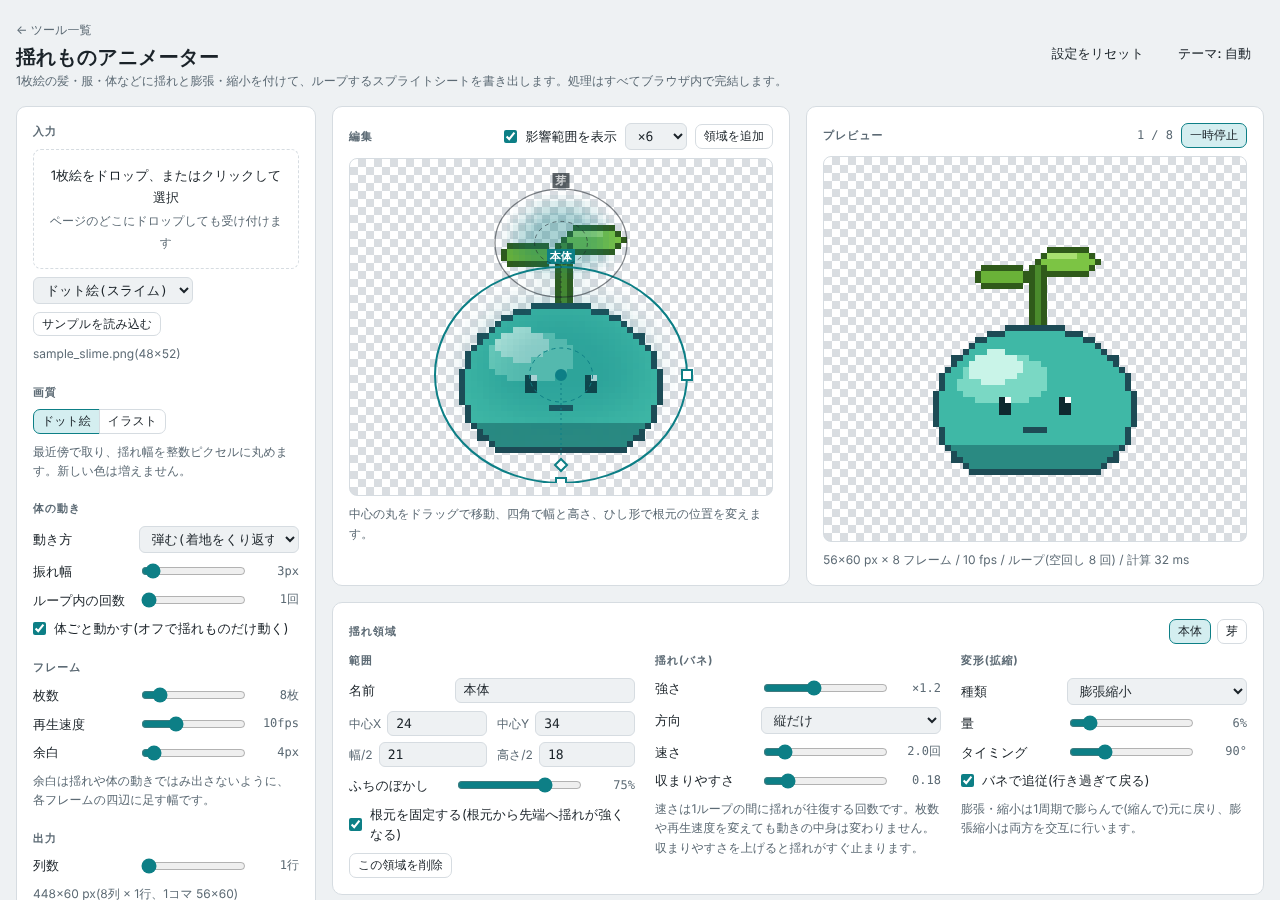
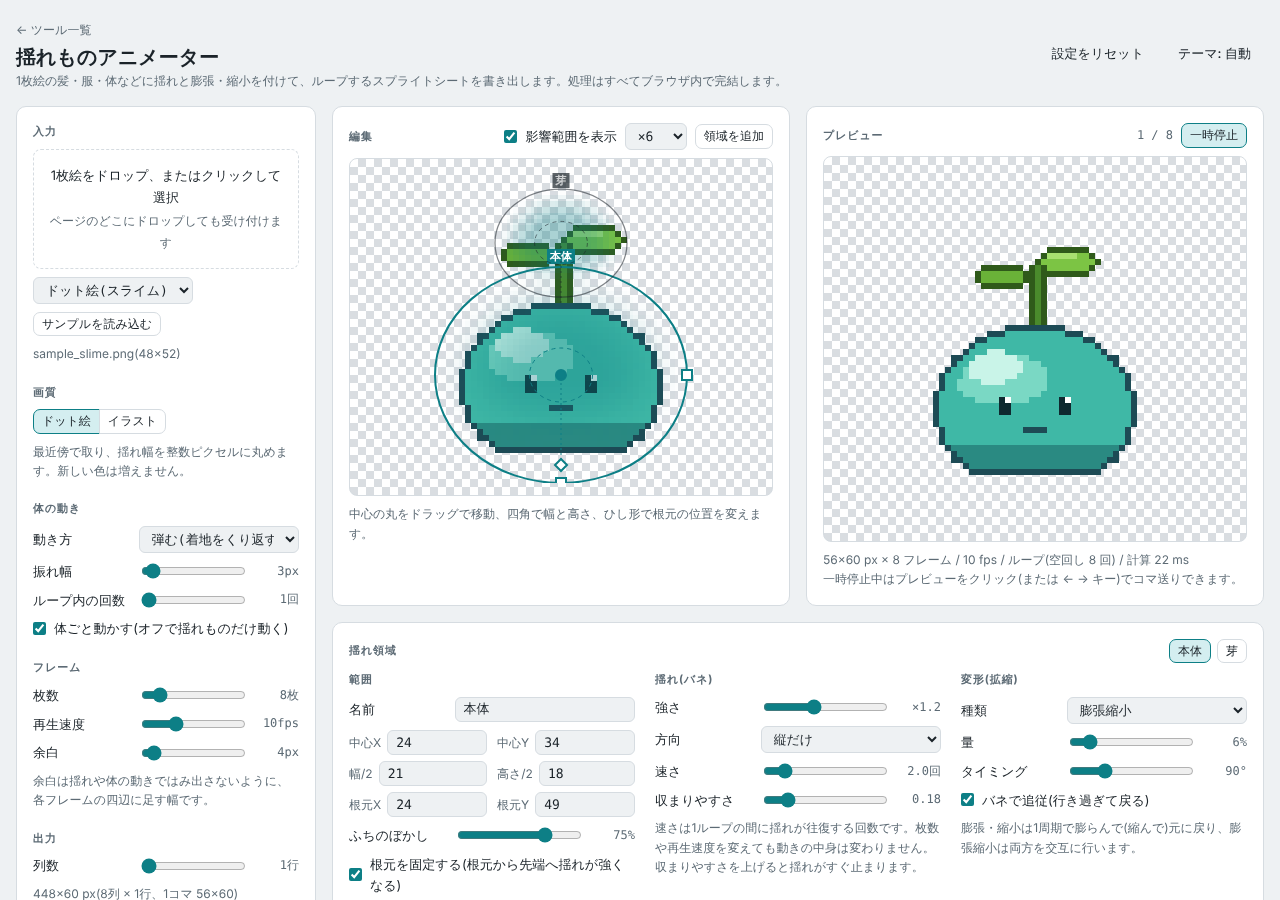
揺れものアニメーター: レビュー指摘を反映
- 保存値を整数・範囲・選択肢で検証し、壊れた値でも既定値で起動する
- 揺れと拡縮の量を変位場の傾きで抑え、極端な設定でも変形が折り返さないようにする
- 「動かない」でもループ内の回数を拡縮の回数として使えるようにする
- イラストサンプルで広げた振れ幅・余白を自動保存しない
- 根元の座標を数値でも入力できるようにし、コマ送りをキーボードでも行えるようにする
- リセットボタンの id と説明を他ツールに揃え、キャンバスに role=img を付ける
- テストは固定の待ち時間ではなく再計算の完了を待つ。折り返しと壊れた保存値のテストを追加

Claude-Session: https://claude.ai/code/session_01Drzz99ycigzBntUXDfpLZ9

Changed region(s): [[0.25, 0.6844, 0.9688, 0.9956], [0.6562, 0.6222, 0.9688, 0.6533], [0.9062, 0.6844, 0.9688, 0.7467]]

diff --git a/tools/jiggle-animator.html b/tools/jiggle-animator.html
@@ -135,7 +135,6 @@ h1{text-wrap:balance}
 .sheet-wrap{overflow:auto;max-height:50vh;border-radius:8px;border:1px solid var(--line);padding:8px}
 .sheet-wrap canvas{display:block}
 </style>
-</style>
 </head>
 <body>
 <div class="wrap">
@@ -147,7 +146,7 @@ h1{text-wrap:balance}
       <p class="hint">1枚絵の髪・服・体などに揺れと膨張・縮小を付けて、ループするスプライトシートを書き出します。処理はすべてブラウザ内で完結します。</p>
     </div>
     <div class="actions">
-      <button class="btn btn-ghost" type="button" id="btnReset">設定をリセット</button>
+      <button class="btn btn-ghost" type="button" id="btnResetPrefs" title="体の動き・フレーム・余白・列数・影響範囲の表示を初期値に戻します（読み込んだ画像と揺れ領域はそのまま）">設定をリセット</button>
       <button class="btn btn-ghost" type="button" id="themeToggle">テーマ: 自動</button>
     </div>
   </header>
@@ -228,7 +227,7 @@ h1{text-wrap:balance}
               <button class="btn btn-sm" type="button" id="btnAdd" disabled>領域を追加</button>
             </div>
           </div>
-          <div class="stage bg-checker"><canvas id="editor" width="64" height="64" aria-label="揺れ領域の編集"></canvas></div>
+          <div class="stage bg-checker"><canvas id="editor" width="64" height="64" role="img" aria-label="揺れ領域の編集"></canvas></div>
           <p class="hint mt-2">中心の丸をドラッグで移動、四角で幅と高さ、ひし形で根元の位置を変えます。</p>
         </section>
         <section class="panel p-4 min-w-0">
@@ -239,8 +238,9 @@ h1{text-wrap:balance}
               <button class="btn btn-sm" type="button" id="btnPlay" aria-pressed="true">一時停止</button>
             </div>
           </div>
-          <div class="stage bg-checker"><canvas id="preview" width="64" height="64" aria-label="アニメーションのプレビュー"></canvas></div>
+          <div class="stage bg-checker"><canvas id="preview" width="64" height="64" role="img" tabindex="0" aria-label="アニメーションのプレビュー(停止中はクリックか左右キーでコマ送り)"></canvas></div>
           <p class="hint mt-2" id="simInfo">—</p>
+          <p class="hint">一時停止中はプレビューをクリック(または ← → キー)でコマ送りできます。</p>
         </section>
       </div>
 
@@ -259,6 +259,8 @@ h1{text-wrap:balance}
               <label for="rCy">中心Y<input class="input" type="number" id="rCy" step="0.5"></label>
               <label for="rRx">幅/2<input class="input" type="number" id="rRx" step="0.5" min="1"></label>
               <label for="rRy">高さ/2<input class="input" type="number" id="rRy" step="0.5" min="1"></label>
+              <label for="rAx">根元X<input class="input" type="number" id="rAx" step="0.5"></label>
+              <label for="rAy">根元Y<input class="input" type="number" id="rAy" step="0.5"></label>
             </div>
             <label class="field" for="rFeather">ふちのぼかし<input class="range" type="range" id="rFeather" min="0.05" max="1" step="0.05"><output id="rFeatherOut"></output></label>
             <label class="check"><input class="checkbox" type="checkbox" id="rAnchorOn">根元を固定する(根元から先端へ揺れが強くなる)</label>
@@ -301,7 +303,7 @@ h1{text-wrap:balance}
           <h2 class="sec-title">スプライトシート</h2>
           <span class="hint" id="sheetSize">—</span>
         </div>
-        <div class="sheet-wrap bg-checker"><canvas id="sheet" class="pixelated" width="1" height="1" aria-label="スプライトシート"></canvas></div>
+        <div class="sheet-wrap bg-checker"><canvas id="sheet" class="pixelated" width="1" height="1" role="img" aria-label="スプライトシート"></canvas></div>
       </section>
     </main>
   </div>
@@ -464,12 +466,16 @@ const $ = (id) => document.getElementById(id);
 const TAU = Math.PI * 2;
 const SETTINGS_KEY = "jiggle-animator:settings";
 const DEFAULTS = { motion: "hop", amp: 3, cycles: 1, bodyMove: true, frames: 8, fps: 10, pad: 4, cols: 0, showWeight: true };
-const GLOBAL_KEYS = ["motion", "amp", "cycles", "bodyMove", "frames", "fps", "pad", "cols", "showWeight"];
-
+// 保存値は壊れていても使えるよう、整数・範囲・選択肢を確かめてから取り込む（範囲は各スライダーと同じ）
+const INT_RANGES = { amp: [0, 64], cycles: [1, 4], frames: [2, 48], fps: [1, 30], pad: [0, 64], cols: [0, 48] };
+const MOTIONS = ["hop", "bounce", "sway", "land", "none"];
 function loadSettings() {
-  const s = IT.store.get(SETTINGS_KEY, {}) || {};
+  const raw = IT.store.get(SETTINGS_KEY, {});
+  const s = raw && typeof raw === "object" && !Array.isArray(raw) ? raw : {};
   const out = { ...DEFAULTS };
-  for (const k of GLOBAL_KEYS) if (k in s && typeof s[k] === typeof DEFAULTS[k]) out[k] = s[k];
+  for (const [k, [lo, hi]] of Object.entries(INT_RANGES)) if (Number.isInteger(s[k])) out[k] = Math.min(hi, Math.max(lo, s[k]));
+  if (MOTIONS.includes(s.motion)) out.motion = s.motion;
+  for (const k of ["bodyMove", "showWeight"]) if (typeof s[k] === "boolean") out[k] = s[k];
   return out;
 }
 let S = loadSettings();
@@ -514,14 +520,22 @@ function wave(kind, u) {
     default: return 0;
   }
 }
-// 揺れ幅の上限（ぼかし幅を超えると画像が折り返すので抑える）
-function maxDisp(r) { return 0.9 * Math.min(r.rx, r.ry) * Math.max(r.feather, 0.15); }
+// 変形が折り返さない（逆算が収束する）よう、変位場の傾きの目安を 0.9 未満に抑える係数。
+// 揺れ: 重みの傾きは最大 1.5/幅 なので |d|×1.5/幅。幅はぼかしの帯と根元〜中心の短い方。
+// 拡縮: s×(p−c)×重み の傾きはおよそ |s|×(1 + 1.5/ぼかし + 根元側の項)。
+function foldLimits(r) {
+  const rmin = Math.min(r.rx, r.ry), rmax = Math.max(r.rx, r.ry);
+  const L = r.anchorOn ? Math.hypot(r.cx - r.ax, r.cy - r.ay) : Infinity;
+  const band = Math.max(0.5, Math.min(r.feather * rmin, L >= 1 ? L : Infinity));
+  return { kd: 1.5 / band, ks: 1 + 1.5 / r.feather + (L >= 1 && L < Infinity ? 1.5 * rmax / L : 0) };
+}
+const FOLD_MAX = 0.9;
 
 // 各フレームの体の位置・領域ごとの揺れ・拡縮を求める
 function simulate() {
   // 時間は「1ループ = 1」で正規化する。枚数は切り出す細かさ、再生速度は再生の速さだけを変え、動きの中身は変えない
   const N = S.frames, T = 1, loop = S.motion !== "land";
-  const P = loop ? T / S.cycles : T;
+  const P = S.motion === "land" ? T : T / S.cycles;
   const A = S.amp;
   let wMax = 1;
   for (const r of regions) wMax = Math.max(wMax, TAU * r.freq);
@@ -543,11 +557,13 @@ function simulate() {
       const t = f * SUB * dt;
       const b = S.bodyMove ? bp(t) : [0, 0];
       const rs = regions.map((r, i) => {
-        let dx = st[i].dx * r.gain, dy = st[i].dy * r.gain;
-        const len = Math.hypot(dx, dy), m = maxDisp(r);
-        if (len > m) { dx *= m / len; dy *= m / len; }
-        if (mode === "pixel") { dx = Math.round(dx); dy = Math.round(dy); }
-        const s = Math.max(-0.6, Math.min(0.6, st[i].s));
+        let dx = st[i].dx * r.gain, dy = st[i].dy * r.gain, s = st[i].s;
+        const { kd, ks } = foldLimits(r);
+        const lip = Math.hypot(dx, dy) * kd + Math.abs(s) * ks;
+        const clamped = lip > FOLD_MAX;
+        if (clamped) { const f = FOLD_MAX / lip; dx *= f; dy *= f; s *= f; }
+        // 丸めで上限を越えないよう、抑えたときは 0 側へ切り捨てる
+        if (mode === "pixel") { const q = clamped ? Math.trunc : Math.round; dx = q(dx); dy = q(dy); }
         return { dx, dy, s };
       });
       out.push({ bx: mode === "pixel" ? Math.round(b[0]) : b[0], by: mode === "pixel" ? Math.round(b[1]) : b[1], rs });
@@ -651,8 +667,10 @@ function renderFrame(fr, W, H, pad) {
 // ---------------------------------------------------------------- 再計算
 let recomputeTimer = 0;
 function scheduleRecompute(ms = 120) { clearTimeout(recomputeTimer); recomputeTimer = setTimeout(recompute, ms); }
+let recomputeCount = 0; // テストが再計算の完了を待つのに使う
 function recompute() {
   if (!src) return;
+  recomputeCount++;
   const t0 = performance.now();
   const pad = S.pad;
   frameW = src.w + pad * 2; frameH = src.h + pad * 2;
@@ -745,9 +763,14 @@ $("btnPlay").addEventListener("click", () => {
   $("btnPlay").setAttribute("aria-pressed", String(playing));
   lastDrawn = -1;
 });
-$("preview").addEventListener("click", () => {
+function stepFrame(delta) {
   if (playing || !frames.length) return;
-  pausedFrame = (pausedFrame + 1) % frames.length; lastDrawn = -1; // 停止中はクリックでコマ送り
+  pausedFrame = (pausedFrame + delta + frames.length) % frames.length; lastDrawn = -1;
+}
+// 停止中はクリックか左右キーでコマ送り
+$("preview").addEventListener("click", () => stepFrame(1));
+$("preview").addEventListener("keydown", (e) => {
+  if (e.key === "ArrowRight" || e.key === "ArrowLeft") { e.preventDefault(); stepFrame(e.key === "ArrowRight" ? 1 : -1); }
 });
 
 // ---------------------------------------------------------------- 編集キャンバス
@@ -876,9 +899,13 @@ function eventPos(e) {
 function hitTest(p) {
   const order = sel >= 0 ? [sel, ...regions.map((_, i) => i).filter((i) => i !== sel)] : regions.map((_, i) => i);
   if (sel >= 0) {
-    for (const h of handlesOf(regions[sel]).reverse()) {
-      if (Math.hypot(h.x * zoom - p.cx, h.y * zoom - p.cy) <= p.tol) return { i: sel, type: h.type };
+    // 小さい領域ではハンドル同士が重なるので、いちばん近いハンドルを選ぶ
+    let best = null, bestD = p.tol;
+    for (const h of handlesOf(regions[sel])) {
+      const d = Math.hypot(h.x * zoom - p.cx, h.y * zoom - p.cy);
+      if (d <= bestD) { best = h; bestD = d; }
     }
+    if (best) return { i: sel, type: best.type };
   }
   for (const i of order) {
     const r = regions[i], nx = (p.x - r.cx) / r.rx, ny = (p.y - r.cy) / r.ry;
@@ -932,6 +959,8 @@ function syncRegionNums() {
   const r = regions[sel];
   if (!r) return;
   $("rCx").value = r.cx; $("rCy").value = r.cy; $("rRx").value = r.rx; $("rRy").value = r.ry;
+  $("rAx").value = r.ax; $("rAy").value = r.ay;
+  $("rAx").disabled = $("rAy").disabled = !r.anchorOn;
 }
 function renderRegionUI() {
   const list = $("regionList");
@@ -966,7 +995,7 @@ for (const [id, k] of Object.entries(R_RANGES)) {
     onRegionEdit();
   });
 }
-for (const [id, k] of [["rCx", "cx"], ["rCy", "cy"], ["rRx", "rx"], ["rRy", "ry"]]) {
+for (const [id, k] of [["rCx", "cx"], ["rCy", "cy"], ["rRx", "rx"], ["rRy", "ry"], ["rAx", "ax"], ["rAy", "ay"]]) {
   $(id).addEventListener("change", (e) => {
     const r = regions[sel]; if (!r) return;
     let v = +e.target.value;
@@ -989,7 +1018,7 @@ $("rAnchorOn").addEventListener("change", (e) => {
   const r = regions[sel]; if (!r) return;
   r.anchorOn = e.target.checked;
   if (r.anchorOn && Math.hypot(r.ax - r.cx, r.ay - r.cy) < 1) { r.ax = r.cx; r.ay = snap(r.cy - r.ry); }
-  onRegionEdit();
+  syncRegionNums(); onRegionEdit();
 });
 $("btnDel").addEventListener("click", () => {
   if (sel < 0) return;
@@ -1018,7 +1047,7 @@ function applySettingsToUI() {
   $("motion").value = S.motion;
   $("bodyMove").checked = S.bodyMove;
   $("showWeight").checked = S.showWeight;
-  $("cycles").disabled = S.motion === "land" || S.motion === "none";
+  $("cycles").disabled = S.motion === "land"; // 「動かない」では拡縮の回数として使う
 }
 for (const k of G_RANGES) {
   $(k).addEventListener("input", (e) => {
@@ -1163,7 +1192,8 @@ function sampleSmooth() {
 $("btnSample").addEventListener("click", () => {
   if ($("sampleKind").value === "smooth") {
     const s = sampleSmooth();
-    if (S.amp < 8) { S.amp = 10; S.pad = Math.max(S.pad, 12); applySettingsToUI(); saveSettings(); }
+    // 大きい絵向けに振れ幅と余白を広げる。画面には出すが保存はしない（ほかの設定を変えたときに一緒に保存される）
+    if (S.amp < 8) { S.amp = 10; S.pad = Math.max(S.pad, 12); applySettingsToUI(); IT.toast("サンプルに合わせて振れ幅と余白を広げました"); }
     setSource("sample_jelly.png", s.canvas, s.regions, "smooth");
   } else {
     const s = samplePixel();
@@ -1181,7 +1211,7 @@ $("btnJson").addEventListener("click", () => {
   if (!frames.length) return;
   IT.saveFile(baseName() + ".json", new Blob([JSON.stringify(asepriteJson(), null, 2)], { type: "application/json" }));
 });
-$("btnReset").addEventListener("click", () => {
+$("btnResetPrefs").addEventListener("click", () => {
   S = { ...DEFAULTS }; IT.store.remove(SETTINGS_KEY);
   applySettingsToUI(); setupEditor(); scheduleRecompute(0);
   IT.toast("設定をリセットしました");

diff --git a/tests/test_jiggle_animator.py b/tests/test_jiggle_animator.py
@@ -25,10 +25,19 @@ def _set_range(page: Page, id_: str, value: int) -> None:
     )
 
 
-def _settle(page: Page, frames: int) -> None:
-    # 設定変更は少し遅れて再計算されるので、枚数が反映されるまで待ってから一拍置く
-    expect(page.locator("#simInfo")).to_contain_text(f"× {frames} フレーム")
-    page.wait_for_timeout(300)
+def _count(page: Page) -> int:
+    return page.evaluate("recomputeCount")
+
+
+def _wait_recompute(page: Page, before: int) -> None:
+    # 設定変更は少し遅れて再計算されるので、再計算の回数が増えるまで待つ
+    page.wait_for_function("(n) => recomputeCount > n", arg=before)
+
+
+def _change(page: Page, id_: str, value: int) -> None:
+    before = _count(page)
+    _set_range(page, id_, value)
+    _wait_recompute(page, before)
 
 
 def _frame(page: Page, i: int) -> str:
@@ -36,9 +45,10 @@ def _frame(page: Page, i: int) -> str:
 
 
 def _load_sample(page: Page, kind: str) -> None:
+    before = _count(page)
     page.select_option("#sampleKind", kind)
     page.click("#btnSample")
-    page.wait_for_timeout(300)
+    _wait_recompute(page, before)
 
 
 def test_motion_independent_of_fps_and_frame_count(browser: Browser, base_url: str):
@@ -46,19 +56,17 @@ def test_motion_independent_of_fps_and_frame_count(browser: Browser, base_url: s
     try:
         for kind in ("pixel", "smooth"):
             _load_sample(page, kind)
-            _set_range(page, "fps", 10)
-            _set_range(page, "frames", 8)
-            _settle(page, 8)
+            _change(page, "fps", 10 if kind == "pixel" else 11)
+            _change(page, "frames", 8 if kind == "pixel" else 9)
+            _change(page, "frames", 8)
             a2, a5 = _frame(page, 2), _frame(page, 5)
             assert a2 != _frame(page, 0), "サンプルが動いていない"
 
-            _set_range(page, "fps", 24)
-            page.wait_for_timeout(400)
+            _change(page, "fps", 24)
             assert _frame(page, 2) == a2, f"{kind}: 再生速度で動きが変わった"
 
             # 16 枚にすると 8 枚の i コマ目は 2i コマ目と同じ瞬間になる
-            _set_range(page, "frames", 16)
-            _settle(page, 16)
+            _change(page, "frames", 16)
             assert _frame(page, 4) == a2, f"{kind}: 枚数で動きが変わった"
             assert _frame(page, 10) == a5, f"{kind}: 枚数で動きが変わった"
         assert errors == []
@@ -120,7 +128,7 @@ def test_settings_persist_and_reset(browser: Browser, base_url: str):
         expect(page.locator("#fps")).to_have_value("20")
         expect(page.locator("#bodyMove")).not_to_be_checked()
 
-        page.click("#btnReset")
+        page.click("#btnResetPrefs")
         expect(page.locator("#motion")).to_have_value("hop")
         expect(page.locator("#frames")).to_have_value("8")
         expect(page.locator("#bodyMove")).to_be_checked()
@@ -128,3 +136,58 @@ def test_settings_persist_and_reset(browser: Browser, base_url: str):
         assert errors == []
     finally:
         page.context.close()
+
+
+def test_extreme_settings_do_not_fold(browser: Browser, base_url: str):
+    """スライダーの端の値でも変形が折り返さない(逆算した画素がずれない)ことを、順方向の写像のヤコビアンで確かめる。"""
+    page, errors = _open(browser, base_url)
+    try:
+        worst = page.evaluate(
+            """() => {
+              let worst = Infinity;
+              for (const feather of [0.05, 0.15, 0.6]) for (const anchorLen of [0, 2, 10]) for (const mode of ['none', 'pulse']) {
+                regions = [newRegion({ cx: 24, cy: 26, rx: 16, ry: 14, feather, gain: 3, freq: 1, damp: 0.02,
+                  anchorOn: anchorLen > 0, ax: 24, ay: 26 + anchorLen, scaleMode: mode, scaleAmt: 0.5, scaleSpring: false })];
+                S.amp = 64;
+                for (const fr of simulate().list) {
+                  const R = prepRegion(regions[0], fr.rs[0]);
+                  const D = (x, y) => { const w = weightAt(R, x, y); return [w * (R.dx + R.s * (x - R.cx)), w * (R.dy + R.s * (y - R.cy))]; };
+                  const h = 0.05;
+                  for (let y = 4; y < 50; y += 0.25) for (let x = 4; x < 44; x += 0.25) {
+                    const a = D(x + h, y), b = D(x - h, y), c = D(x, y + h), d = D(x, y - h);
+                    const j11 = 1 + (a[0] - b[0]) / (2 * h), j12 = (c[0] - d[0]) / (2 * h);
+                    const j21 = (a[1] - b[1]) / (2 * h), j22 = 1 + (c[1] - d[1]) / (2 * h);
+                    worst = Math.min(worst, j11 * j22 - j12 * j21);
+                  }
+                }
+              }
+              return worst;
+            }"""
+        )
+        assert worst > 0, f"写像が折り返している(ヤコビアンの最小値 {worst:.3f})"
+        assert errors == []
+    finally:
+        page.context.close()
+
+
+def test_broken_stored_settings_fall_back(browser: Browser, base_url: str):
+    """壊れた保存値(オブジェクト以外・範囲外・小数・未知の選択肢)でもツールが動き、既定値か範囲内に収まる。"""
+    for stored in ['"abc"', '[1,2]', '{"pad":-40,"frames":1000,"cycles":1.5,"fps":0,"motion":"zzz","bodyMove":"no"}']:
+        context = browser.new_context()
+        context.add_init_script(f"localStorage.setItem('imagetools:jiggle-animator:settings', {stored!r})")
+        page = context.new_page()
+        errors: list[str] = []
+        page.on("pageerror", lambda err: errors.append(str(err)))
+        try:
+            page.goto(f"{base_url}/{JIGGLE}")
+            expect(page.locator("#btnPng")).to_be_enabled(timeout=10_000)
+            expect(page.locator("#motion")).to_have_value("hop")
+            expect(page.locator("#cycles")).to_have_value("1")
+            expect(page.locator("#bodyMove")).to_be_checked()
+            if stored.startswith("{"):
+                expect(page.locator("#pad")).to_have_value("0")
+                expect(page.locator("#frames")).to_have_value("48")
+                expect(page.locator("#fps")).to_have_value("1")
+            assert errors == [], (stored, errors)
+        finally:
+            context.close()
